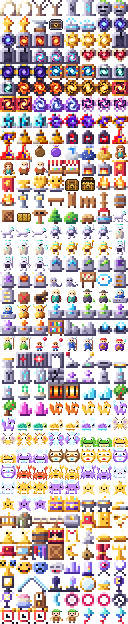
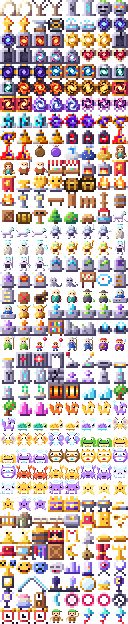
Sprite audit; the chest, hay bale and strongbox match the props' pixel size
tools/audit_art.mjs measures 857 sprites for soft edges, empty frames, loop
jitter and drift, and compares outline and pixel size within each group. No
real defects beyond one: the props I redrew earlier used finer pixels than the
props round them; they are now 8x8 art in 2x2 blocks like the crates and
barrels. The game draws two pixel sizes on screen (original sheets 1:1, the
newer packs and props at 2x); unifying them waits on a decision.

Changed region(s): [[0.5, 0.274, 0.75, 0.3045], [0.375, 0.0304, 0.5, 0.0609], [0.125, 0.3349, 0.25, 0.3654]]

diff --git a/docs/overhaul_checklist.md b/docs/overhaul_checklist.md
@@ -29,10 +29,18 @@ Baseline: commit a0e0b20, all 22 `tools/check_*.mjs` passing.
 | Bosses | Standing at the south edge of Glacius's lake took 26 hits a minute (58-78 elsewhere); the Ringmaster's north edge 4 | Their aimed attacks fell short of their own arenas: Glacius's ice lances flew 9 tiles while it circles the north half of the lake; the Ringmaster's card fans 14 tiles from drums at the edge of a wide ring | Lances reach 15 tiles (their ice still forms where each line stops), cards 22; patterns, speed and damage unchanged | `tools/check_boss_safespots.mjs` (each boss vs six standing spots, edge circling and a reading player): Glacius south 26 to 53; Ringmaster north 4 to 8 |
 | Bosses | Circling the arena's edge at a steady pace was a cheap way through five bosses (hits a minute: Kraken 7, Ringmaster 6, Mycelia 15, Colossus 24, Vesper 26; a reading player 16, 2, 30, 29, 17) | Their aimed attacks always aimed where you were, never where you were going | (Chosen by the user: option 2.) `bxAim` in src/bossx.js: a boss with `lead: true` aims one aimed volley in three, from over 4 tiles, at where you will be when it arrives (your actual movement, frame to frame, times its flight, at most 1.2 s). Set for those five; fans and walls go through it, and each boss's own aimed attacks call it | `check_boss_safespots`: circling now Kraken 30, Ringmaster 8, Mycelia 34, Colossus 36, Vesper 22, never cheaper than reading play (5, 2, 37, 28, 17). Boss, pressure, Hollowmoon, Keep, Mirerot and Crypt checks pass |
 | Bosses | The Ringmaster's leap landing threw a full ring of cane-stars from a drum at the arena's edge, half of it into the wall behind him | A ring whatever the spot | It throws its 14 stars in a 200-degree fan facing the ring's middle (denser where you are), reaching 20 tiles | `audit_boss_positioning`: wasted on walls 13% to 5%; Hollowmoon and boss checks pass |
+| Art | The new chest, open chest, hay bale and vault strongbox (drawn in earlier passes) used finer pixels than the props round them | They were drawn at 16 px detail; the atlas's props are 8x8 art in 2x2 blocks | Redrawn as 8x8 props (`tools/art_objects.mjs`), same designs | `tools/audit_art.mjs`; side by side with the crate and barrel |
 | Tests | `check_shot_lifecycle` failed once at random | Dungeons generated from the clock, the game's generator not reseeded | Clock pinned, generator reseeded per shooter | repeated runs |
 | Tests | `check_remaster_ext` failed at random (about 1 run in 4) | Its realm monsters fire on unseeded randomness | Seeded | 3 of 3 identical runs |
 
 ## Found working (tested end to end)
+- Sprites (`tools/audit_art.mjs`, 857 character, monster, boss, pet, item and object sprites, plus the 98 regular
+  enemies and the objects atlas reviewed by eye): no empty frames, no misaligned loops, and the few soft-edged
+  sprites are on purpose (the puppets' faint strings, the watermelon's baked shadow, elites' attack effects); the
+  drift of Emily the Yapper is her waving wand, the Fallen Heart's bob its heartbeat. Open question: two pixel
+  sizes on screen. The original enemy, champion, boss and player sheets and the townsfolk draw one screen pixel per
+  art pixel; everything from the newer packs (72 creatures, 60 pets, 117 items, the elites and event bosses) and
+  the world's props draw two. Unifying means redrawing one side; it waits on a decision.
 - Every talkable thing and chest in the realm and all 17 dungeons (`tools/check_dungeon_objects.mjs`): 279 talks
   (journals, levers' masks and sigils, lore stones, wells, dig spots, altars, fishing, the cat, waypoints...) each do
   something visible, and 196 chests open under fire and drop their bag.
@@ -57,7 +65,6 @@ Baseline: commit a0e0b20, all 22 `tools/check_*.mjs` passing.
 
 ## To do (next sessions)
 - Projectile sizes across enemies and abilities against the art standard (the weapons are part of the item rework).
-- Sprite audit beyond the chest: loot bags, NPCs, dungeon styles, placeholder art.
 - Feel: movement, firing, camera, transitions.
 - Enemy movement, audit so far (`tools/audit_movement.mjs`, 189 monster types in open ground while you circle,
   alone and in groups of 8). Already smooth: no frame-to-frame reversals anywhere, heading turn rates under 1.3 rad/s
